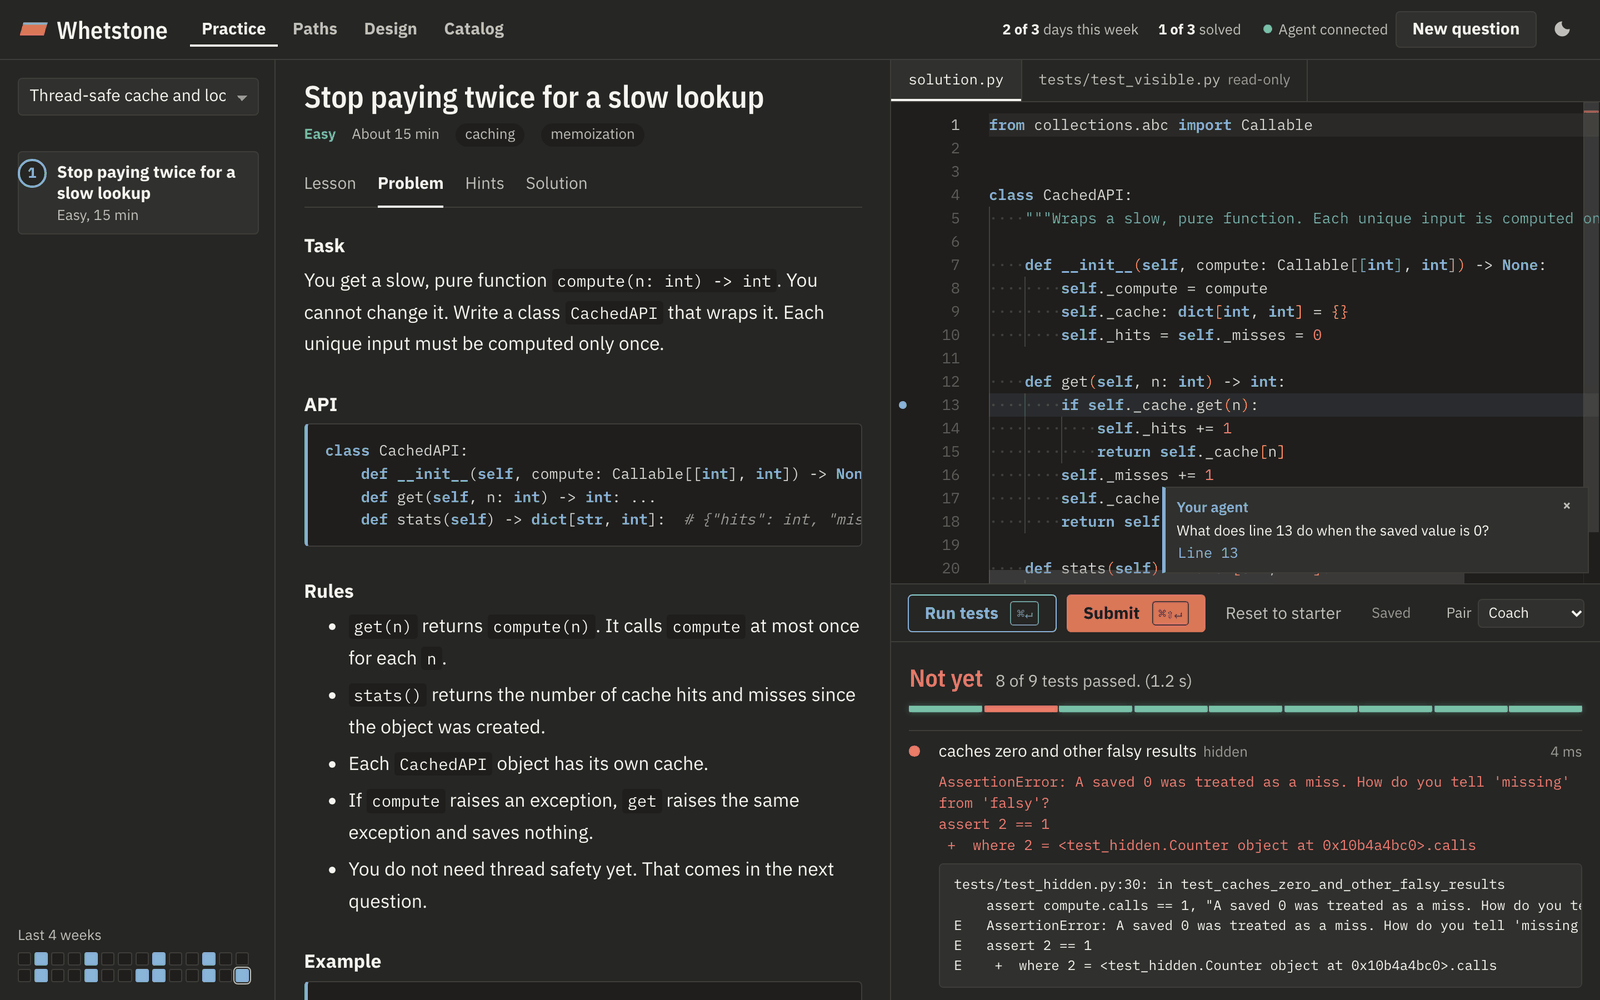
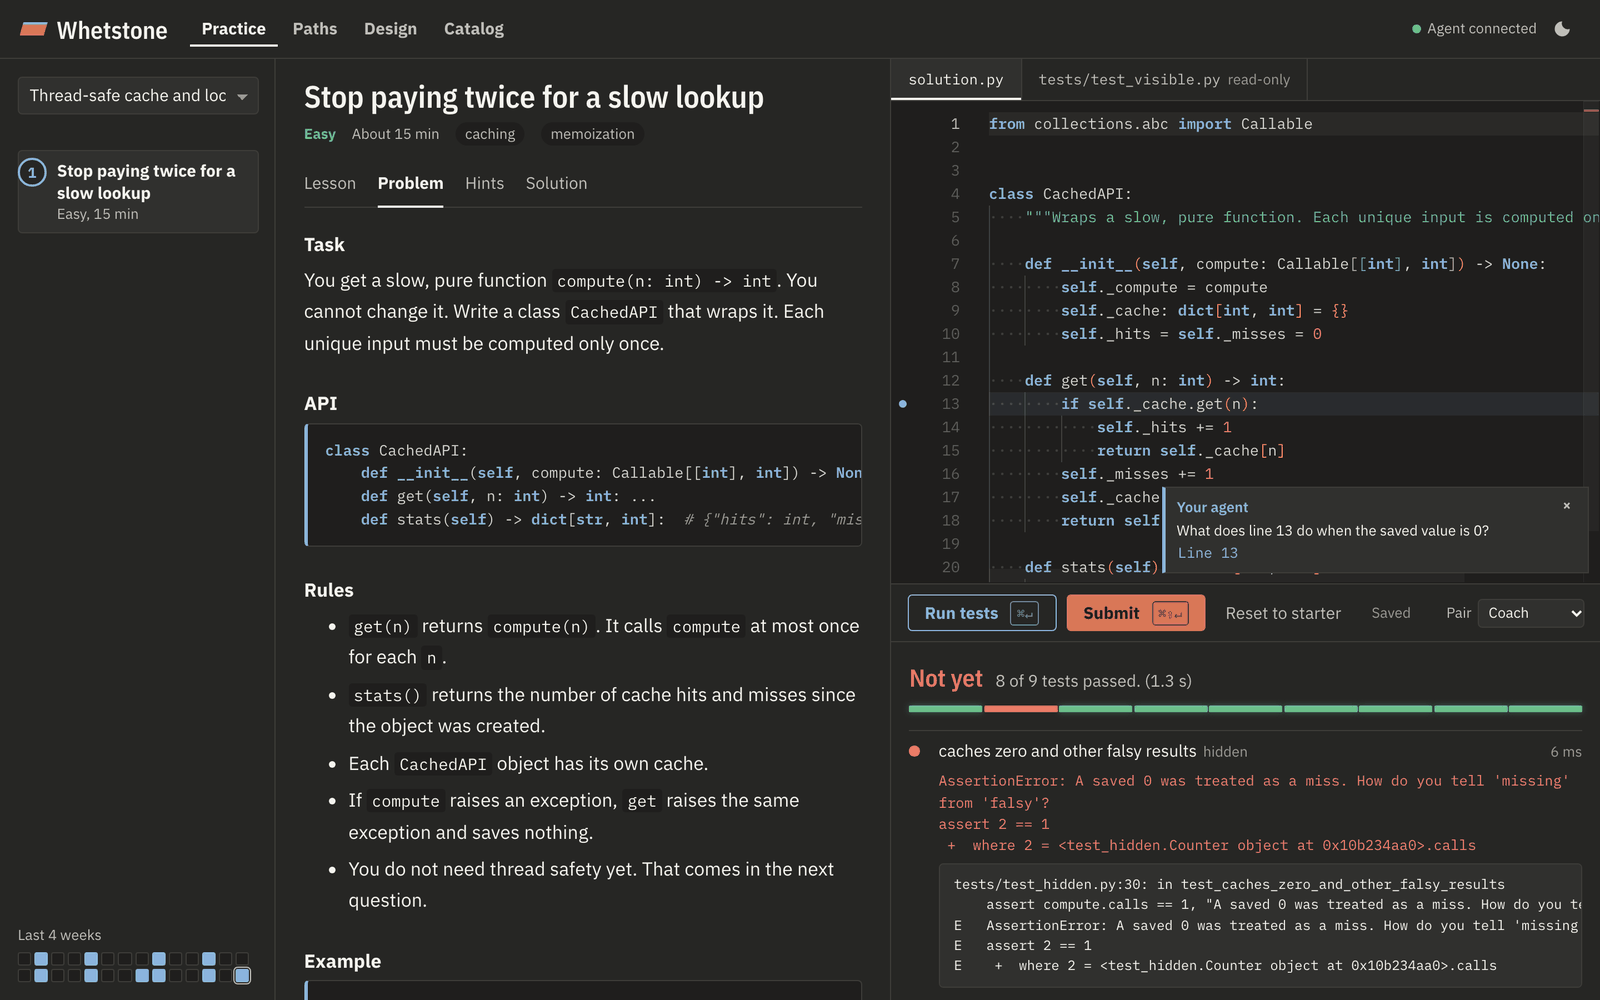
Top bar: drop the bare counts and the New question button
In a side pane the week and solved counts lost their labels and read
as "2 of 3" and "0 of 11". Today and Progress already show both, so the
top bar now holds only the pages, the agent status and the theme. The
New question button and its dialog go too: your agent builds questions
from the Prepare buttons, and the optional API-key generator remains in
the catalog drawer. /api/generate, which only served that dialog, is
removed. Screenshots and the demo GIF are re-taken.

diff --git a/whetstone/static/index.html b/whetstone/static/index.html
@@ -8,7 +8,7 @@
   <link rel="preconnect" href="https://fonts.googleapis.com">
   <link rel="preconnect" href="https://fonts.gstatic.com" crossorigin>
   <link href="https://fonts.googleapis.com/css2?family=IBM+Plex+Mono:wght@400;500;600&family=IBM+Plex+Sans+Condensed:wght@500;600&family=IBM+Plex+Sans:ital,wght@0,400;0,500;0,600;0,700;1,400&display=swap" rel="stylesheet">
-  <link rel="stylesheet" href="/static/app.css?v=21">
+  <link rel="stylesheet" href="/static/app.css?v=22">
   <!-- React for the design whiteboard (Excalidraw), loaded only when a whiteboard opens. -->
   <script type="importmap">
   { "imports": {
@@ -28,10 +28,8 @@
       <a href="#/design" id="nav-design">Design</a>
       <a href="#/catalog" id="nav-catalog">Catalog</a>
     </nav>
-    <div class="topbar-stats" id="stats" aria-live="polite"></div>
     <div class="topbar-actions">
       <span class="agent-status" id="agent-status" role="status"></span>
-      <button class="btn btn-quiet" id="open-generate" type="button" title="New question"><span class="btn-plus" aria-hidden="true">+</span><span class="btn-label">New question</span></button>
       <button class="btn btn-icon" id="theme-toggle" type="button" aria-label="Switch light or dark theme" title="Switch theme">
         <svg viewBox="0 0 24 24" width="18" height="18" aria-hidden="true"><path d="M12 3a9 9 0 1 0 9 9 7 7 0 0 1-9-9Z" fill="currentColor"/></svg>
       </button>
@@ -231,48 +229,6 @@
     </section>
   </main>
 
-  <dialog class="drawer" id="generate-dialog" aria-labelledby="generate-title">
-    <form method="dialog" class="drawer-inner" id="generate-form">
-      <div class="drawer-head">
-        <h2 id="generate-title">New question</h2>
-        <button class="btn btn-icon" value="cancel" formnovalidate aria-label="Close">
-          <svg viewBox="0 0 24 24" width="18" height="18" aria-hidden="true"><path d="M6 6l12 12M18 6L6 18" stroke="currentColor" stroke-width="2" stroke-linecap="round"/></svg>
-        </button>
-      </div>
-      <div id="generate-disabled" hidden>
-        <p>Claude writes a lesson, a problem, tests, and a reference solution, then Whetstone checks that the solution passes and the starter fails.</p>
-        <p><strong>Use your AI subscription.</strong> Open this folder in Claude Code, Codex, Cursor or another coding agent and ask: <em>“Build a Whetstone question about … in the … module.”</em> The agent follows <code>AGENTS.md</code> and the <code>bin/whetstone</code> CLI, and Whetstone checks the question before adding it.</p>
-        <p>Or add <code>ANTHROPIC_API_KEY=…</code> to the <code>.env</code> file and restart the app to write questions from here.</p>
-      </div>
-      <div id="generate-fields">
-        <label class="field">
-          <span>Topic</span>
-          <textarea name="topic" rows="3" required minlength="3" placeholder="Token bucket rate limiter for a vendor API client"></textarea>
-        </label>
-        <label class="field">
-          <span>Module</span>
-          <input name="track" list="track-options" required placeholder="concurrency-caching or a new module name">
-          <datalist id="track-options"></datalist>
-        </label>
-        <fieldset class="field segmented">
-          <legend>Difficulty</legend>
-          <label><input type="radio" name="difficulty" value="easy"> Easy</label>
-          <label><input type="radio" name="difficulty" value="medium" checked> Medium</label>
-          <label><input type="radio" name="difficulty" value="hard"> Hard</label>
-        </fieldset>
-        <label class="field">
-          <span>Notes <small>(optional)</small></span>
-          <textarea name="notes" rows="2" placeholder="Use a fake clock. Tie it to my day job."></textarea>
-        </label>
-        <div class="drawer-actions">
-          <button class="btn btn-primary" id="generate-btn" type="submit" value="default">Write question</button>
-          <span class="save-state" id="generate-state"></span>
-        </div>
-        <pre class="gen-log" id="generate-log" hidden></pre>
-      </div>
-    </form>
-  </dialog>
-
   <dialog class="drawer drawer-wide" id="path-dialog" aria-label="Learning path">
     <div class="drawer-inner">
       <div class="drawer-head">
@@ -306,6 +262,6 @@
     window.MONACO_BASE = "https://cdn.jsdelivr.net/npm/monaco-editor@0.52.2/min";
   </script>
   <script src="https://cdn.jsdelivr.net/npm/monaco-editor@0.52.2/min/vs/loader.js" onerror="window.MONACO_FAILED = true"></script>
-  <script src="/static/app.js?v=26"></script>
+  <script src="/static/app.js?v=27"></script>
 </body>
 </html>

diff --git a/whetstone/static/app.js b/whetstone/static/app.js
@@ -272,7 +272,6 @@ async function loadTracks() {
   state.tracks = await api("/api/tracks");
   const select = $("#track-select");
   select.replaceChildren(...state.tracks.map((t) => el("option", { value: t.id, text: t.title })));
-  $("#track-options").replaceChildren(...state.tracks.map((t) => el("option", { value: t.id, label: t.title })));
   select.parentElement.hidden = state.tracks.length < 2;
 }
 
@@ -305,14 +304,9 @@ function renderRail() {
 
 function capital(s) { return s.charAt(0).toUpperCase() + s.slice(1); }
 
+/** The rail's "Last 4 weeks" calendar. */
 async function loadStats() {
   const s = await api("/api/stats");
-  const w = s.week;
-  const streak = w.streak ? `Weekly streak: ${plural(w.streak, "week")}` : `${plural(w.sessions, "practice day")} so far`;
-  $("#stats").replaceChildren(
-    el("span", { title: `${streak}. A week counts at ${w.target} practice days.` }, el("strong", { text: w.this_week >= w.target ? plural(w.this_week, "day") : `${w.this_week} of ${w.target}` }), w.this_week >= w.target ? " this week" : " days this week"),
-    el("span", {}, el("strong", { text: `${s.solved} of ${s.total}` }), " solved"),
-  );
   fillDays($("#days"), s.active_days);
 }
 
@@ -1192,47 +1186,6 @@ function designRow(p, max) {
         el("span", {}, el("strong", { text: p.reports }), p.reports === 1 ? " report" : " reports"))),
     el("span", { class: "row-actions" }, action),
     asked);
-}
-
-/* ---------- Generate drawer ---------- */
-function initGenerate() {
-  const dialog = $("#generate-dialog");
-  $("#open-generate").addEventListener("click", () => {
-    const enabled = state.config && state.config.generator_enabled;
-    $("#generate-disabled").hidden = enabled;
-    $("#generate-fields").hidden = !enabled;
-    const trackInput = dialog.querySelector("[name=track]");
-    if (!trackInput.value) trackInput.value = state.trackId || "";
-    dialog.showModal();
-  });
-  $("#generate-form").addEventListener("submit", async (e) => {
-    if (e.submitter && e.submitter.value === "cancel") return;
-    e.preventDefault();
-    const form = new FormData(e.target);
-    const btn = $("#generate-btn"), stateEl = $("#generate-state"), log = $("#generate-log");
-    btn.disabled = true;
-    stateEl.textContent = "Claude is writing and Whetstone is checking. This takes about a minute.";
-    log.hidden = true;
-    try {
-      const res = await api("/api/generate", { method: "POST", body: {
-        topic: form.get("topic"), track: form.get("track"), difficulty: form.get("difficulty"), notes: form.get("notes") || "",
-      } });
-      log.textContent = res.log.join("\n") + (res.ok ? "" : `\n\n${res.error}`);
-      log.hidden = false;
-      if (res.ok) {
-        stateEl.textContent = "Added. Opening it now.";
-        await loadTracks();
-        location.hash = `#/${res.track}/${res.id}`;
-        setTimeout(() => dialog.close(), 600);
-      } else {
-        stateEl.textContent = "The question did not pass the checks. Change the topic or notes and try again.";
-      }
-    } catch (err) {
-      stateEl.textContent = err.message;
-    } finally {
-      btn.disabled = false;
-    }
-  });
 }
 
 /* ---------- Catalog ---------- */
@@ -2193,7 +2146,6 @@ async function boot() {
   window.addEventListener("beforeunload", () => { if (state.saveTimer) saveDraft(); });
   const mac = /Mac|iPhone|iPad/.test(navigator.platform);
   $$(".kbd").forEach((k) => { k.textContent = (mac ? "⌘" : "Ctrl ") + (k.dataset.keys === "submit" ? "⇧" : "") + "↵"; });
-  initGenerate();
   initCatalog();
   PANE.addEventListener("change", onLayoutChange);
   PHONE.addEventListener("change", onLayoutChange);

diff --git a/whetstone/static/app.css b/whetstone/static/app.css
@@ -152,9 +152,7 @@ code, pre { font-family: var(--font-code); }
   background-repeat: no-repeat;
 }
 
-.topbar-stats { display: flex; gap: 1.1rem; color: var(--ink-soft); font-size: var(--step--1); margin-left: auto; }
-.topbar-stats strong { color: var(--ink); font-weight: 700; }
-.topbar-actions { display: flex; gap: 0.4rem; align-items: center; }
+.topbar-actions { display: flex; gap: 0.4rem; align-items: center; margin-left: auto; }
 
 /* ---------- Buttons ---------- */
 .btn {
@@ -712,7 +710,7 @@ button.stop:focus-visible { outline: 2px solid var(--focus); outline-offset: -1p
 /* ---------- Rail head: module picker and question stepper ---------- */
 .rail-head { display: grid; gap: 0.5rem; }
 .rail .track-picker select { width: 100%; }
-.stepper, .tab-code, .btn-plus, .results-toggle { display: none; }
+.stepper, .tab-code, .results-toggle { display: none; }
 .results-toggle { margin-left: auto; align-items: center; gap: 0.35rem; font-weight: 700; font-size: var(--step--1); padding: 0.35rem 0.6rem; border-radius: 999px; background: var(--stone-sunk); }
 .results-toggle::after { content: ""; width: 0.4rem; height: 0.4rem; border-right: 2px solid currentColor; border-bottom: 2px solid currentColor; transform: rotate(45deg) translateY(-2px); transition: transform 150ms ease; }
 .results-toggle[aria-expanded="false"]::after { transform: rotate(-135deg) translateY(-1px); }
@@ -730,12 +728,6 @@ button.stop:focus-visible { outline: 2px solid var(--focus); outline-offset: -1p
   .topbar { flex-wrap: nowrap; gap: 0.7rem; padding: 0.4rem 0.8rem; }
   .wordmark { font-size: var(--step-1); }
   .topnav a { padding: 0.25rem 0.5rem; }
-  .topbar-stats { gap: 0.7rem; white-space: nowrap; }
-  .topbar-stats span { font-size: 0; }           /* keep the numbers, drop the words */
-  .topbar-stats strong { font-size: var(--step--1); }
-  #open-generate { padding: 0.3rem 0.65rem; }
-  #open-generate .btn-plus { display: inline; font-size: var(--step-1); line-height: 1; }
-  #open-generate .btn-label { position: absolute; width: 1px; height: 1px; overflow: hidden; clip: rect(0 0 0 0); white-space: nowrap; }
 
   .workspace { grid-template-columns: minmax(0, 1fr); grid-template-rows: auto minmax(0, 1fr); }
   .workspace.code-view { grid-template-rows: auto auto minmax(0, 1fr); }
@@ -786,7 +778,7 @@ button.stop:focus-visible { outline: 2px solid var(--focus); outline-offset: -1p
   .wordmark { font-size: var(--step-0); }
   .topnav { gap: 0; }
   .topnav a { padding: 0.25rem 0.4rem; font-size: var(--step--1); }
-  .topbar-stats, #theme-toggle { display: none; }
+  #theme-toggle { display: none; }
   .topbar-actions { margin-left: auto; }
   .reader-head { padding: 0.7rem 0.8rem 0; }
   .reader-body { padding: 0.9rem 0.8rem 2.5rem; }

diff --git a/whetstone/server.py b/whetstone/server.py
@@ -87,13 +87,6 @@ class SolutionBody(BaseModel):
     give_up: bool = False
 
 
-class GenerateBody(BaseModel):
-    topic: str = Field(min_length=3, max_length=500)
-    track: str = Field(min_length=1, max_length=80)
-    difficulty: str = Field(default="medium", pattern="^(easy|medium|hard)$")
-    notes: str = Field(default="", max_length=2000)
-
-
 NO_GENERATOR = "Ask your AI agent in this folder to build it (see AGENTS.md), or set ANTHROPIC_API_KEY in .env and restart to build here."
 
 
@@ -542,22 +535,6 @@ def create_app(settings: Settings | None = None) -> FastAPI:
         topic = f"{problem['title']}: {problem.get('summary', '')}"
         try:
             key = generate_challenge(settings, topic, track_id, problem["title"], "medium", build_notes(problem), log=lines.append)
-        except GenerationError as exc:
-            return {"ok": False, "error": str(exc), "log": lines}
-        track, cid = key.split("/", 1)
-        return {"ok": True, "track": track, "id": cid, "log": lines}
-
-    @app.post("/api/generate")
-    def generate(body: GenerateBody):
-        if not settings.generator_enabled:
-            raise HTTPException(400, NO_GENERATOR)
-        lines: list[str] = []
-        known = {t.id: t.title for t in load_tracks(settings.tracks_dir)}
-        track_id = body.track if body.track in known else slugify(body.track)
-        try:
-            key = generate_challenge(
-                settings, body.topic, track_id, known.get(track_id, body.track), body.difficulty, body.notes, log=lines.append
-            )
         except GenerationError as exc:
             return {"ok": False, "error": str(exc), "log": lines}
         track, cid = key.split("/", 1)

diff --git a/CHANGELOG.md b/CHANGELOG.md
@@ -33,3 +33,4 @@ All notable changes are listed here. The format follows [Keep a Changelog](https
 - Wording: "build" now means what you do (build a system); your agent's buttons say Prepare (Prepare, Prepare review variant, Prepare all missing modules), and modules without questions are "not ready yet".
 - System design: a Design page lists the design questions companies ask (from about 220 system design reports), most asked first, with For you, company and status filters. A new question type, `whiteboard`, is answered in Markdown with Mermaid diagrams: sections to fill in, a Preview tab that draws the diagrams, an interview clock, and live notes from your agent. Your agent grades the design against the question's rubric with `whetstone grade` (migration 6); a point the design misses shows only the agent's question until you solve it. `question brief` and `question new` take `--type whiteboard`; the app's Prepare and Ask for review buttons queue `design` and `grade` requests. Catalog problems that were discussion-only can now be practised this way. See `examples/short-links-whiteboard/`.
 - System design whiteboard: design questions get a Whiteboard tab (Excalidraw, loaded from esm.sh only when it opens) for drawing the diagram instead of writing Mermaid. Drawings are saved per question (migration 7) and turned into a Mermaid flowchart for the agent: labelled shapes become nodes, arrows become edges, frames become groups, and loose text and stray arrows are listed. `whetstone draft` prints it, the Preview tab shows it, and a drawn diagram satisfies Check sections.
+- Top bar: removed the week and solved counts, which showed as bare numbers in a side pane (Today and Progress show both), and the New question button and its dialog. Your agent builds questions from Prepare buttons; with an API key set, the in-app generator is still in the catalog drawer.
